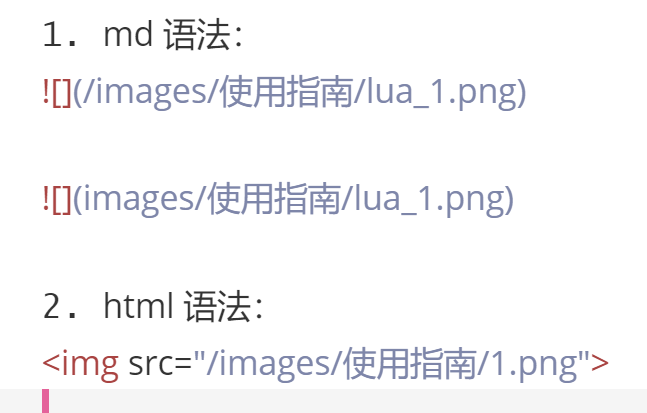
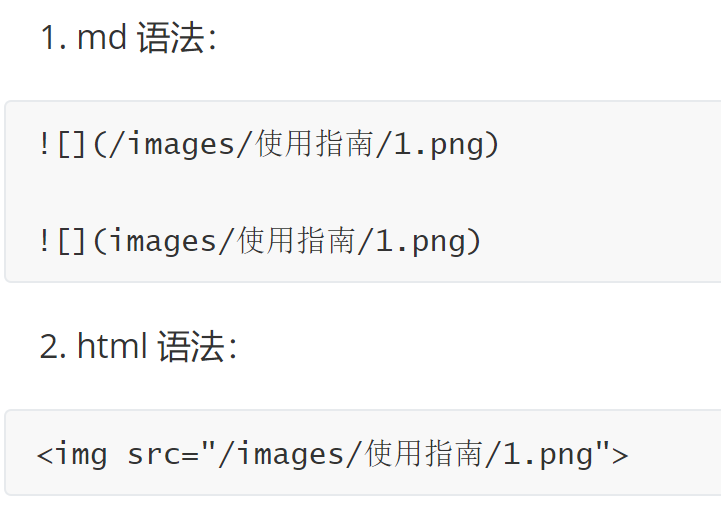
Site updated: 2023-12-17 14:03:52

diff --git a/about/index.html b/about/index.html
@@ -22,12 +22,12 @@
     var CONFIG = {"hostname":"example.com","root":"/","scheme":"Gemini","version":"7.8.0","exturl":false,"sidebar":{"position":"left","display":"post","padding":18,"offset":12,"onmobile":false},"copycode":{"enable":false,"show_result":false,"style":null},"back2top":{"enable":true,"sidebar":false,"scrollpercent":false},"bookmark":{"enable":false,"color":"#222","save":"auto"},"fancybox":false,"mediumzoom":false,"lazyload":false,"pangu":false,"comments":{"style":"tabs","active":null,"storage":true,"lazyload":false,"nav":null},"algolia":{"hits":{"per_page":10},"labels":{"input_placeholder":"Search for Posts","hits_empty":"We didn't find any results for the search: ${query}","hits_stats":"${hits} results found in ${time} ms"}},"localsearch":{"enable":false,"trigger":"manual","top_n_per_article":1,"unescape":false,"preload":false},"motion":{"enable":true,"async":false,"transition":{"post_block":"fadeIn","post_header":"slideDownIn","post_body":"slideDownIn","coll_header":"slideLeftIn","sidebar":"slideUpIn"}}};
   </script>
 
-  <meta name="description" content="2023-10-14大四在读 计算机鼠鼠，时常反省，偶尔emo；始终有一颗不断变强的心！加油！ 我的 github 我的 CSDN  记录一些学习内容，分享一些学习心得； 记录工作过程；  联系方式： 邮箱：&amp;#x66;&amp;#x6a;&amp;#x31;&amp;#x35;&amp;#x35;&amp;#x33;&amp;#x36;&amp;#57;&amp;#50;&amp;#x37;&amp;#55;&amp;#48;&amp;#51;&amp;#64;&amp;#49;&amp;#x36;&amp;#51;&amp;#">
+  <meta name="description" content="2023-10-14大四在读 计算机鼠鼠，时常反省，偶尔emo；始终有一颗不断变强的心！加油！ 我的 github 我的 CSDN  记录一些学习内容，分享一些学习心得； 记录工作过程；  联系方式： 邮箱：&amp;#x66;&amp;#x6a;&amp;#49;&amp;#53;&amp;#53;&amp;#51;&amp;#54;&amp;#57;&amp;#x32;&amp;#x37;&amp;#55;&amp;#x30;&amp;#51;&amp;#64;&amp;#x31;&amp;#54;&amp;#x33;&amp;#46">
 <meta property="og:type" content="website">
 <meta property="og:title" content="关于">
 <meta property="og:url" content="http://example.com/about/index.html">
 <meta property="og:site_name" content="FJBQ">
-<meta property="og:description" content="2023-10-14大四在读 计算机鼠鼠，时常反省，偶尔emo；始终有一颗不断变强的心！加油！ 我的 github 我的 CSDN  记录一些学习内容，分享一些学习心得； 记录工作过程；  联系方式： 邮箱：&amp;#x66;&amp;#x6a;&amp;#x31;&amp;#x35;&amp;#x35;&amp;#x33;&amp;#x36;&amp;#57;&amp;#50;&amp;#x37;&amp;#55;&amp;#48;&amp;#51;&amp;#64;&amp;#49;&amp;#x36;&amp;#51;&amp;#">
+<meta property="og:description" content="2023-10-14大四在读 计算机鼠鼠，时常反省，偶尔emo；始终有一颗不断变强的心！加油！ 我的 github 我的 CSDN  记录一些学习内容，分享一些学习心得； 记录工作过程；  联系方式： 邮箱：&amp;#x66;&amp;#x6a;&amp;#49;&amp;#53;&amp;#53;&amp;#51;&amp;#54;&amp;#57;&amp;#x32;&amp;#x37;&amp;#55;&amp;#x30;&amp;#51;&amp;#64;&amp;#x31;&amp;#54;&amp;#x33;&amp;#46">
 <meta property="og:locale" content="zh_CN">
 <meta property="article:published_time" content="2023-10-14T00:58:42.000Z">
 <meta property="article:modified_time" content="2023-10-16T02:23:31.974Z">
@@ -200,7 +200,7 @@
 <p>记录工作过程；</p>
 <hr>
 <p>联系方式：</p>
-<p>邮箱：<a href="mailto:&#x66;&#x6a;&#x31;&#x35;&#x35;&#x33;&#x36;&#57;&#50;&#x37;&#55;&#48;&#51;&#64;&#49;&#x36;&#51;&#46;&#x63;&#111;&#x6d;">&#x66;&#x6a;&#x31;&#x35;&#x35;&#x33;&#x36;&#57;&#50;&#x37;&#55;&#48;&#51;&#64;&#49;&#x36;&#51;&#46;&#x63;&#111;&#x6d;</a><br>微信：fj15536927703</p>
+<p>邮箱：<a href="mailto:&#x66;&#x6a;&#49;&#53;&#53;&#51;&#54;&#57;&#x32;&#x37;&#55;&#x30;&#51;&#64;&#x31;&#54;&#x33;&#46;&#99;&#x6f;&#x6d;">&#x66;&#x6a;&#49;&#53;&#53;&#51;&#54;&#57;&#x32;&#x37;&#55;&#x30;&#51;&#64;&#x31;&#54;&#x33;&#46;&#99;&#x6f;&#x6d;</a><br>微信：fj15536927703</p>
 
       </div>
       

diff --git a/2023/10/14/使用指南/index.html b/2023/10/14/使用指南/index.html
@@ -30,10 +30,8 @@
 <meta property="og:description" content="这篇文章记录一下 Blog 的一些使用指南：source&#x2F;_posts：里面放的就是文章，要写文章就加一篇上去； 文章的分类和标签在上面加上去就行；  全部改完之后，在 Blog 文件夹打开 git bash，执行下面命令：hexo cleanhexo ghexo d hexo cl &amp;&amp; hexo g &amp;&amp; hexo d  插入图片： 首先在 _conf">
 <meta property="og:locale" content="zh_CN">
 <meta property="og:image" content="http://example.com/images/%E4%BD%BF%E7%94%A8%E6%8C%87%E5%8D%97/1.png">
-<meta property="og:image" content="http://example.com/images/%E4%BD%BF%E7%94%A8%E6%8C%87%E5%8D%97/1.png">
-<meta property="og:image" content="http://example.com/images/%E4%BD%BF%E7%94%A8%E6%8C%87%E5%8D%97/1.png">
 <meta property="article:published_time" content="2023-10-14T07:28:54.178Z">
-<meta property="article:modified_time" content="2023-12-17T05:58:27.624Z">
+<meta property="article:modified_time" content="2023-12-17T06:03:02.969Z">
 <meta property="article:author" content="FJBQ">
 <meta name="twitter:card" content="summary">
 <meta name="twitter:image" content="http://example.com/images/%E4%BD%BF%E7%94%A8%E6%8C%87%E5%8D%97/1.png">
@@ -208,7 +206,7 @@
                   <i class="far fa-calendar-check"></i>
                 </span>
                 <span class="post-meta-item-text">更新于</span>
-                <time title="修改时间：2023-12-17 13:58:27" itemprop="dateModified" datetime="2023-12-17T13:58:27+08:00">2023-12-17</time>
+                <time title="修改时间：2023-12-17 14:03:02" itemprop="dateModified" datetime="2023-12-17T14:03:02+08:00">2023-12-17</time>
               </span>
             <span class="post-meta-item">
               <span class="post-meta-item-icon">
@@ -244,14 +242,15 @@
 <p>全部改完之后，在 Blog 文件夹打开 git bash，执行下面命令：<br><strong>hexo clean</strong><br><strong>hexo g</strong><br><strong>hexo d</strong></p>
 <p><strong>hexo cl &amp;&amp; hexo g &amp;&amp; hexo d</strong></p>
 <hr>
-<p>插入图片：</p>
+<p><strong>插入图片</strong>：</p>
 <p>首先在 _config.yml 配置文件里面的这个：<br>post_asset_folder: false<br>这个一定要为 false，之前不小心设置为 true 了，然后就一直插入失败…</p>
+<p>语法：<br><img src="/images/%E4%BD%BF%E7%94%A8%E6%8C%87%E5%8D%97/1.png"></p>
 <ol>
-<li>md 语法：<br><img src="/images/%E4%BD%BF%E7%94%A8%E6%8C%87%E5%8D%97/1.png"></li>
-</ol>
-<p><img src="/images/%E4%BD%BF%E7%94%A8%E6%8C%87%E5%8D%97/1.png"></p>
-<ol start="2">
-<li>html 语法：<img src="/images/使用指南/1.png"></li>
+<li><p>md 语法：</p>
+<figure class="highlight plaintext"><table><tr><td class="gutter"><pre><span class="line">1</span><br><span class="line">2</span><br><span class="line">3</span><br></pre></td><td class="code"><pre><span class="line">![](/images/使用指南/1.png)</span><br><span class="line"></span><br><span class="line">![](images/使用指南/1.png)</span><br></pre></td></tr></table></figure>
+</li>
+<li><p>html 语法：</p>
+<figure class="highlight plaintext"><table><tr><td class="gutter"><pre><span class="line">1</span><br></pre></td><td class="code"><pre><span class="line">&lt;img src=&quot;/images/使用指南/1.png&quot;&gt;</span><br></pre></td></tr></table></figure></li>
 </ol>
 <p>images 文件夹是在 source 下面自己创建的！</p>
 

diff --git a/index.html b/index.html
@@ -1058,7 +1058,7 @@
                   <i class="far fa-calendar-check"></i>
                 </span>
                 <span class="post-meta-item-text">更新于</span>
-                <time title="修改时间：2023-12-17 13:58:27" itemprop="dateModified" datetime="2023-12-17T13:58:27+08:00">2023-12-17</time>
+                <time title="修改时间：2023-12-17 14:03:02" itemprop="dateModified" datetime="2023-12-17T14:03:02+08:00">2023-12-17</time>
               </span>
             <span class="post-meta-item">
               <span class="post-meta-item-icon">
@@ -1087,14 +1087,15 @@
 <p>全部改完之后，在 Blog 文件夹打开 git bash，执行下面命令：<br><strong>hexo clean</strong><br><strong>hexo g</strong><br><strong>hexo d</strong></p>
 <p><strong>hexo cl &amp;&amp; hexo g &amp;&amp; hexo d</strong></p>
 <hr>
-<p>插入图片：</p>
+<p><strong>插入图片</strong>：</p>
 <p>首先在 _config.yml 配置文件里面的这个：<br>post_asset_folder: false<br>这个一定要为 false，之前不小心设置为 true 了，然后就一直插入失败…</p>
+<p>语法：<br><img src="/images/%E4%BD%BF%E7%94%A8%E6%8C%87%E5%8D%97/1.png"></p>
 <ol>
-<li>md 语法：<br><img src="/images/%E4%BD%BF%E7%94%A8%E6%8C%87%E5%8D%97/1.png"></li>
-</ol>
-<p><img src="/images/%E4%BD%BF%E7%94%A8%E6%8C%87%E5%8D%97/1.png"></p>
-<ol start="2">
-<li>html 语法：<img src="/images/使用指南/1.png"></li>
+<li><p>md 语法：</p>
+<figure class="highlight plaintext"><table><tr><td class="gutter"><pre><span class="line">1</span><br><span class="line">2</span><br><span class="line">3</span><br></pre></td><td class="code"><pre><span class="line">![](/images/使用指南/1.png)</span><br><span class="line"></span><br><span class="line">![](images/使用指南/1.png)</span><br></pre></td></tr></table></figure>
+</li>
+<li><p>html 语法：</p>
+<figure class="highlight plaintext"><table><tr><td class="gutter"><pre><span class="line">1</span><br></pre></td><td class="code"><pre><span class="line">&lt;img src=&quot;/images/使用指南/1.png&quot;&gt;</span><br></pre></td></tr></table></figure></li>
 </ol>
 <p>images 文件夹是在 source 下面自己创建的！</p>
 

diff --git a/css/main.css b/css/main.css
@@ -1168,7 +1168,7 @@ pre .javascript .function {
 }
 .links-of-author a::before,
 .links-of-author span.exturl::before {
-  background: #b3ffff;
+  background: #878c2f;
   border-radius: 50%;
   content: ' ';
   display: inline-block;
